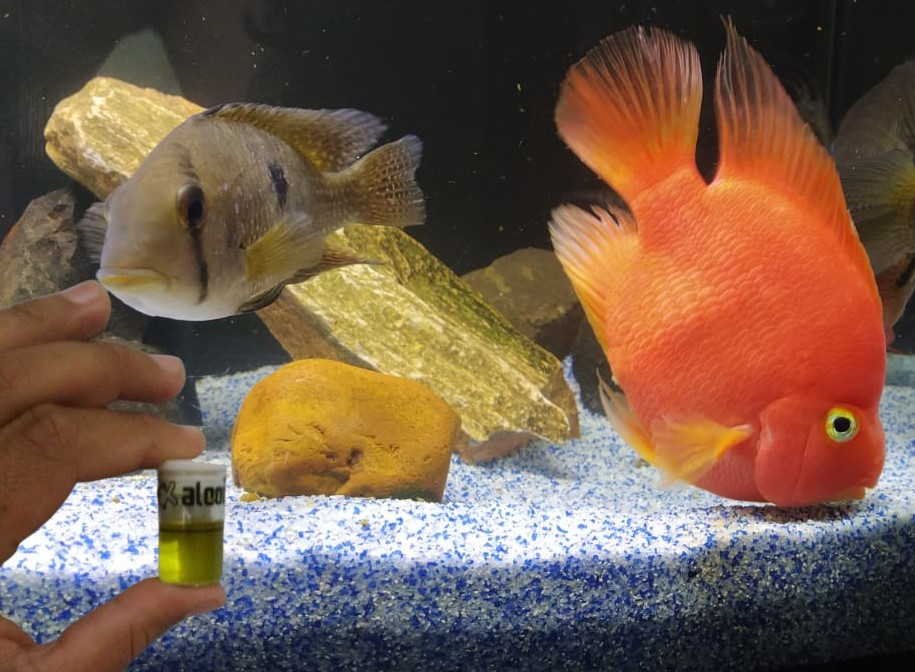
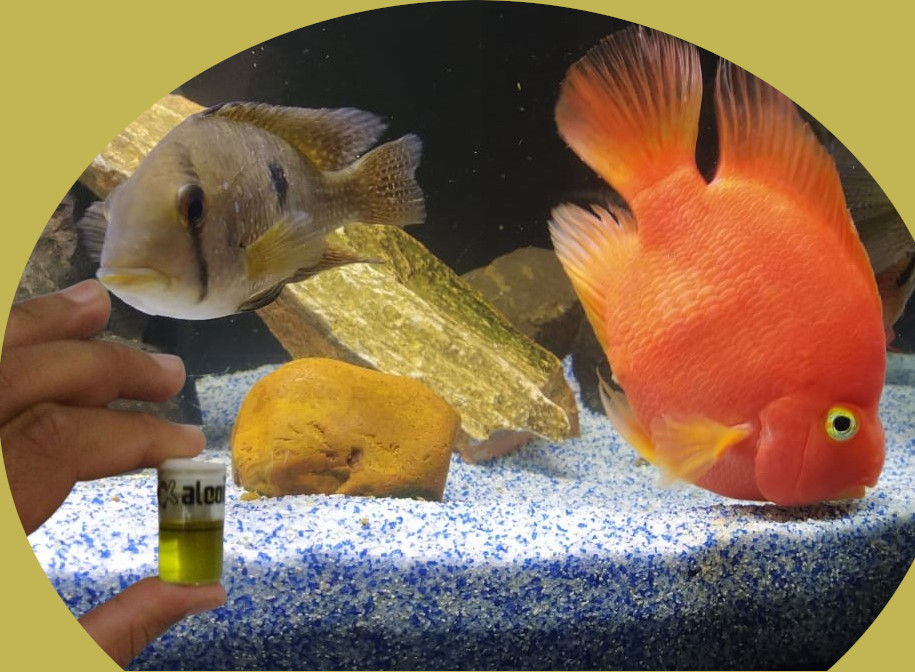
mudado texto da pagina calcular amonia e imagem

diff --git a/calcular-amonia.html b/calcular-amonia.html
@@ -57,7 +57,7 @@
             <div class="main-amonia">
             <h2 class="main-subtitle">Seu Aquário</h2>
             <h1 class="main-title -h1">Calculadora de Amônia</h1>
-            <p class="main-subtitle -p">A amônia é um composto tóxico produzido pela decomposição de resíduos de peixes, restos de alimentos e outros detritos no aquário. Quando não é adequadamente filtrada ou convertida em compostos menos nocivos, como nitrito e nitrato, pode causar problemas graves de saúde nos peixes, incluindo danos nas brânquias, estresse e, em níveis altos, até a morte. Monitorar e calcular a amônia tóxica é crucial para manter um ambiente saudável no aquário, garantindo que os níveis permaneçam seguros para os peixes e promovendo um ecossistema equilibrado.</p>
+            <p class="main-subtitle -p">A amônia é um composto tóxico produzido pela decomposição de resíduos de peixes, restos de alimentos e outros detritos no aquário.Pode causar problemas graves de saúde nos peixes, incluindo danos nas brânquias, estresse e, em níveis altos, até a morte. Monitorar e calcular a amônia tóxica é crucial para manter um ambiente saudável no aquário.</p>
             <button class="main-button" onclick="hidem()">Calcule Sua AMÔNIA</button> 
             </div>      
         </div>
@@ -86,7 +86,7 @@
         </div>
         <div>
             <figure>
-                <img src="assets/amonia calc.jpg" alt="logo background" class="main-background -amonia">
+                <img src="assets/amonia calc.png" alt="logo background" class="main-background -amonia">
             </figure>
         </div>
     </div>  

diff --git a/css/main-img.css b/css/main-img.css
@@ -55,7 +55,8 @@
         .img-recomend.-first{
             margin-left: 230px;
         }
-
-      
+        .main-background.-amonia{
+            margin-left: 10px;
+        }
  
 }

diff --git a/css/calculadora.css b/css/calculadora.css
@@ -61,3 +61,8 @@
     font-weight: 700;
 
 }
+@media(max-width: 790px){
+.calcular-amonia{
+    margin-right: 20px;
+}
+}
